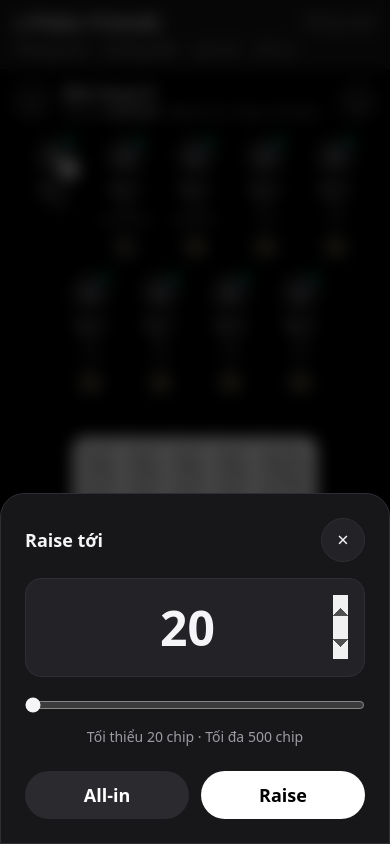
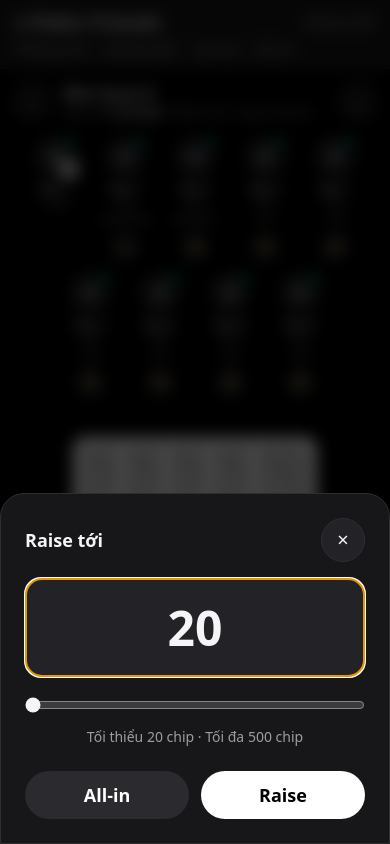
fix(web): hide native number-input spinners (raise modal)

Changed region(s): [[0.0615, 0.6777, 0.9538, 0.8009]]

diff --git a/apps/web/src/index.css b/apps/web/src/index.css
@@ -78,3 +78,15 @@ body {
 input[type="range"] {
   accent-color: var(--ink);
 }
+
+/* Hide the native number-input spinner arrows (stepper) everywhere —
+   numeric entry, validation and keyboard stepping stay unchanged. */
+input[type="number"] {
+  -moz-appearance: textfield;
+  appearance: textfield;
+}
+input[type="number"]::-webkit-outer-spin-button,
+input[type="number"]::-webkit-inner-spin-button {
+  -webkit-appearance: none;
+  margin: 0;
+}

diff --git a/apps/web/src/components/table/RaiseModal.tsx b/apps/web/src/components/table/RaiseModal.tsx
@@ -20,6 +20,7 @@ export function RaiseModal({ raiseTo, onRaiseToChange, minRaise, maxRaise, canRa
       </div>
       <input
         type="number"
+        inputMode="numeric"
         className="w-full bg-inset border border-line rounded-2xl px-4 py-4 text-5xl font-bold text-center"
         value={raiseTo}
         min={minRaise}
